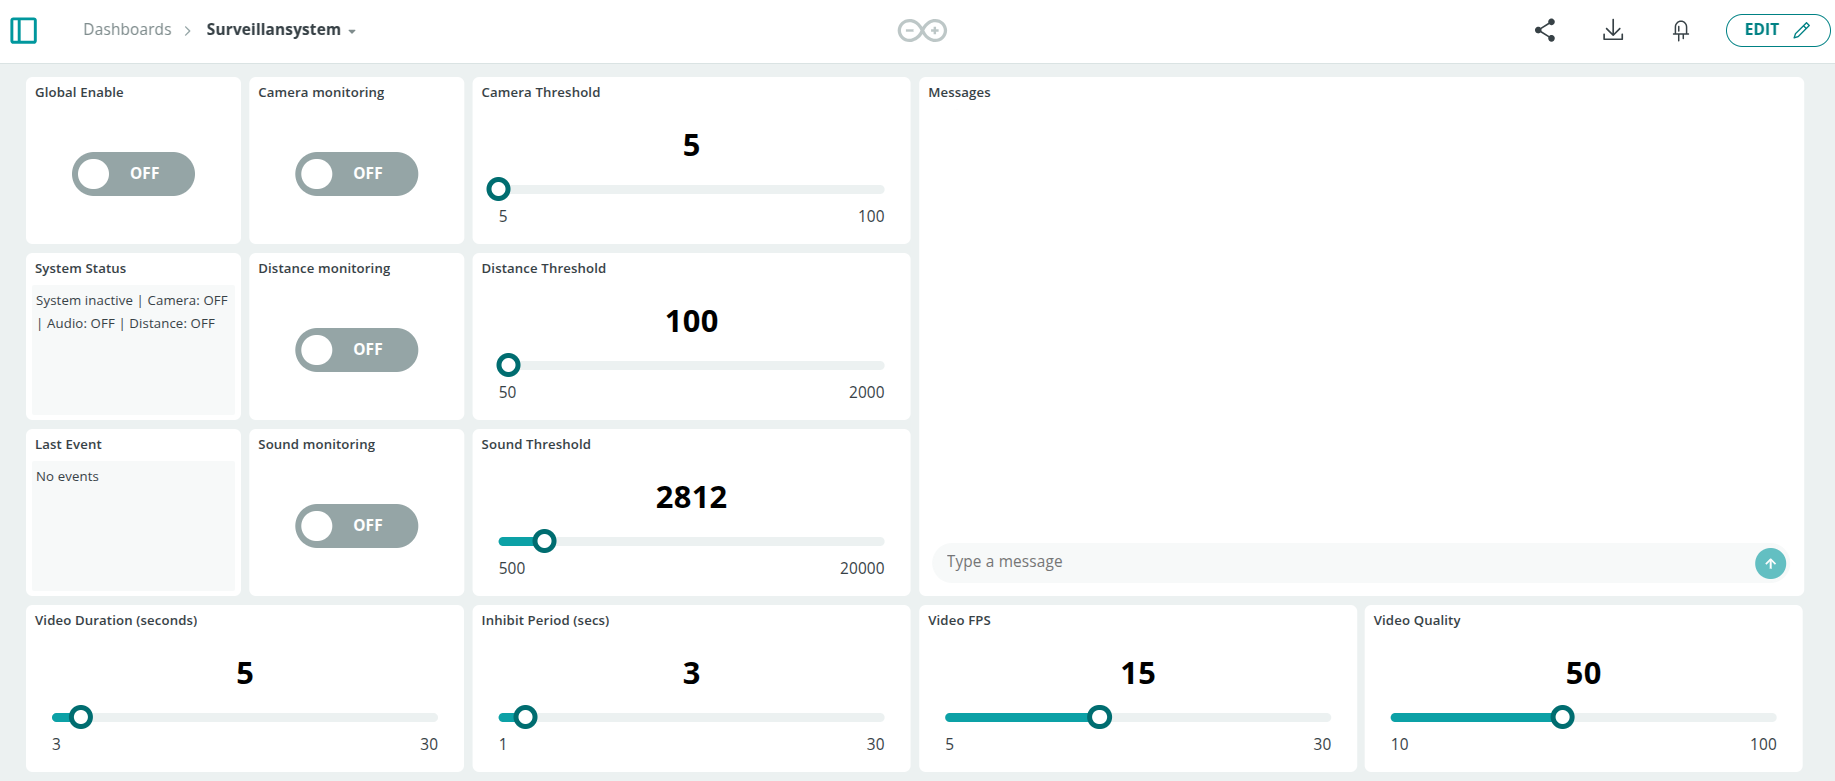
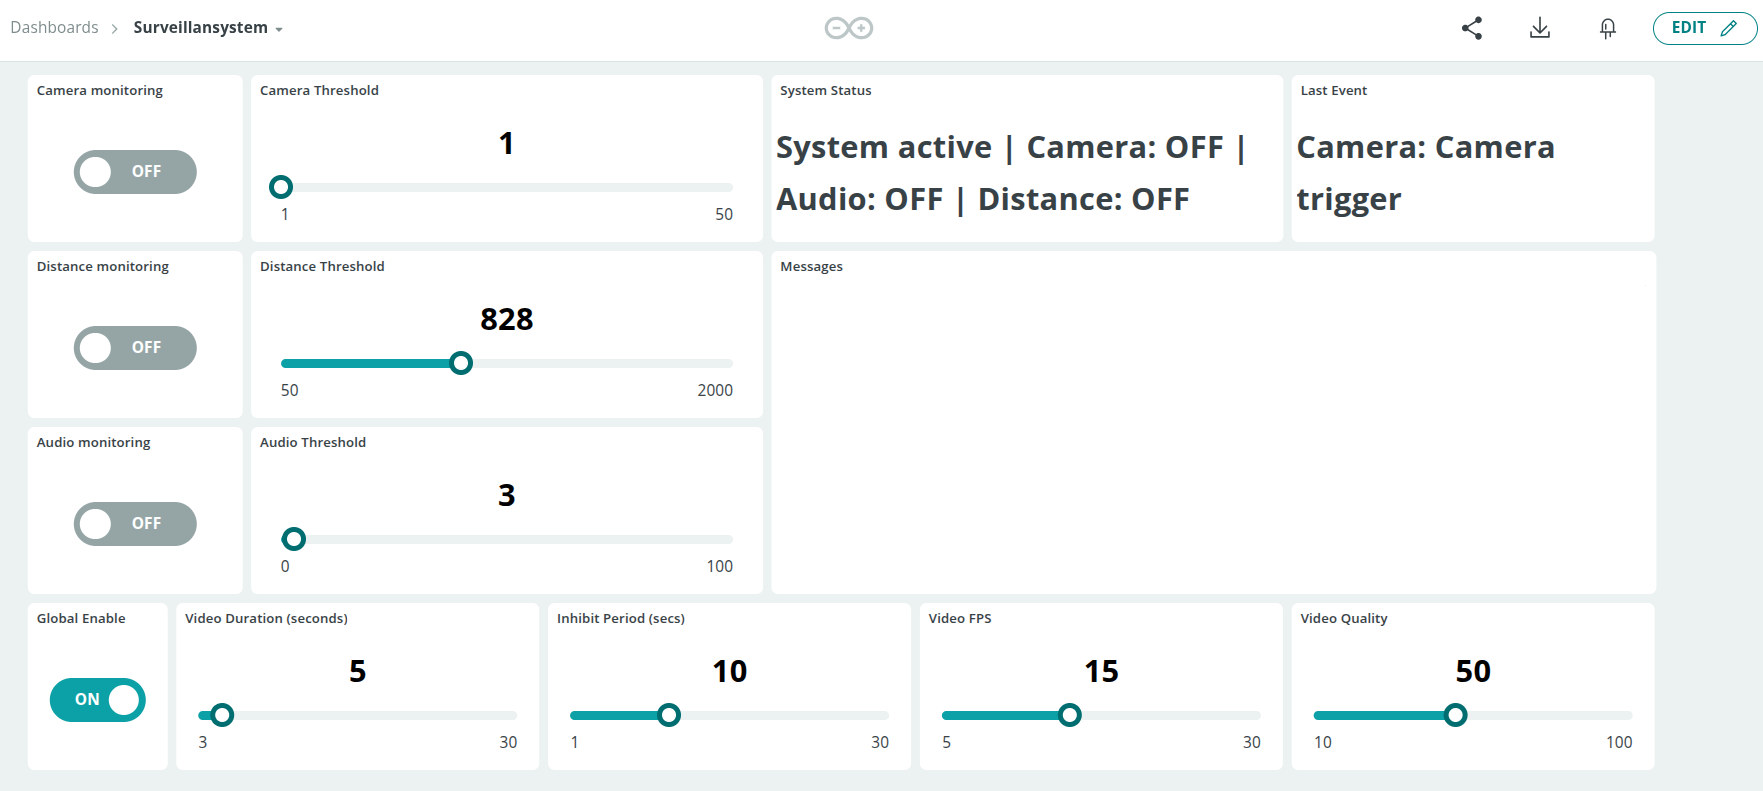
fix(detector): fixed audio detection with fft. Updated better config starting settings and removed redundant notification message in audio detection with telegram_manager; updated dashboard image for README.md file

diff --git a/audio_detector.py b/audio_detector.py
@@ -8,6 +8,7 @@ from ulab import utils
 
 # LED for debugging
 green_led = pyb.LED(2)
+red_led = pyb.LED(1)
 
 # Global variable for the AudioDetector instance
 global_audio_detector = None
@@ -20,115 +21,132 @@ def global_audio_callback(buf):
 
 class AudioDetector:
     def __init__(self, config):
-        """Initialize audio detector with FFT-based analysis"""
+        """Initialize audio detector with improved peak detection"""
         global global_audio_detector
         global_audio_detector = self  # Assign this instance to the global variable
-        
+
         self.config = config
         self.audio_enabled = False
         self.audio_streaming_active = False
         self.raw_buf = None
-        self.last_level = 0  # Store last detected level
+
+        # Improved peak detection parameters
         self.sound_detected = False  # Flag for sound detection
-        
-        # Audio analysis variables
-        self.avg_levels = []  # For running average of audio levels
-        self.max_avg_samples = 5  # Number of samples to keep for averaging
-        
+        self.last_level = 0          # Store last detected level
+        self.peak_count = 0          # Counter for detected peaks
+        self.last_alert_time = 0     # Time of last alert
+
+        # Parameters from config, with proper defaults if not available
+        self.reset_threshold = 5     # Level below which we consider the sound has ended
+        self.min_time_between_alerts = 0.5  # Minimum seconds between alerts
+
         # Initialize audio system
         self.init_audio()
-    
+
     def init_audio(self):
         """Initialize audio with appropriate settings"""
-        logger.info("Initializing audio detector with FFT analysis...")
+        logger.info("Initializing audio detector with improved peak detection...")
 
         try:
             # Initialize audio with the configured gain
             audio.init(channels=1, frequency=16000, gain_db=self.config.AUDIO_GAIN, highpass=0.9883)
             self.audio_enabled = True
             logger.info(f"Audio initialized with gain {self.config.AUDIO_GAIN}dB")
-            
+
             # Initialize the buffer for FFT analysis
             self.raw_buf = None
-            
+
             # Reset detection state
             self.sound_detected = False
-            self.avg_levels = []
-            
+            self.peak_count = 0
+
             # Force a garbage collection
             gc.collect()
-            
+
         except Exception as e:
             logger.error(f"Audio initialization error: {e}")
-    
+
     def process_audio(self, buf):
-        """Process audio buffer using FFT analysis"""
-        # Store the buffer for FFT analysis
+        """Process audio buffer using peak detection algorithm"""
+        # Store the buffer for analysis
         if not self.raw_buf:
             self.raw_buf = buf
-        
-        # Skip processing if disabled or already detected
-        if not self.audio_enabled or not self.audio_streaming_active or self.sound_detected:
+
+        # Skip processing if disabled or not active
+        if not self.audio_enabled or not self.audio_streaming_active:
             return
-            
+
         try:
             if self.raw_buf:
-                # Convert buffer to int16 array for FFT analysis
+                # Convert buffer to int16 array for analysis
                 pcm_buf = np.frombuffer(self.raw_buf, dtype=np.int16)
-                self.raw_buf = None  # Reset buffer
-                
+                self.raw_buf = None  # Reset buffer immediately to allow new data
+
                 # Skip processing if buffer is empty
                 if len(pcm_buf) == 0:
                     return
-                
-                # Calculate FFT spectrum
+
+                # Calculate FFT spectrum (useful for frequency analysis if needed)
                 fft_buf = utils.spectrogram(pcm_buf)
-                
-                # Calculate audio level - mean of absolute values (0-100 scale)
-                level = int((np.mean(abs(pcm_buf)) / 32768) * 100)
-                
-                # Add to rolling average
-                self.avg_levels.append(level)
-                if len(self.avg_levels) > self.max_avg_samples:
-                    self.avg_levels.pop(0)
-                
-                # Calculate average level
-                avg_level = sum(self.avg_levels) / len(self.avg_levels)
-                
-                # Scale to match threshold range (convert from 0-100 to threshold range)
-                audio_threshold = avg_level * (self.config.SOUND_THRESHOLD_MAX / 100)
-                
+
+                # IMPROVED: Calculate peak amplitude instead of average
+                peak_amplitude = np.max(abs(pcm_buf))
+                peak_level = int((peak_amplitude / 32768) * 100)
+
+                # Store raw level for reference
+                raw_level = int((np.mean(abs(pcm_buf)) / 32768) * 100)
+
                 # Store the level for external access
-                self.last_level = audio_threshold
-                
-                # Print debug messages
+                self.last_level = peak_level
+
+                # Debug logging
                 if self.config.DEBUG and time.time() % 5 == 0:
-                    logger.debug(f"Audio level: {audio_threshold:.1f}, threshold: {self.config.SOUND_THRESHOLD}", verbose=True)
-                
-                # Check if level exceeds threshold
-                if audio_threshold > self.config.SOUND_THRESHOLD:
-                    logger.info(f"Sound detected: level={audio_threshold:.1f}, threshold={self.config.SOUND_THRESHOLD}")
-                    self.sound_detected = True
-                    
-                    # Visual feedback
-                    green_led.on()
-                    time.sleep(0.1)
-                    green_led.off()
-                
+                    logger.debug(f"Audio peak: {peak_level}, raw: {raw_level}, threshold: {self.config.SOUND_THRESHOLD}", verbose=True)
+
+                # Check for peak detection
+                if peak_level > self.config.SOUND_THRESHOLD:
+                    self._handle_audio_peak(peak_level)
+                elif peak_level < self.reset_threshold and self.sound_detected:
+                    # Reset the detection state when audio falls below reset threshold
+                    self.sound_detected = False
+                    red_led.off()  # Visual indication of reset
+
         except Exception as e:
             logger.error(f"Error in audio processing: {e}")
             # Force garbage collection
             gc.collect()
-    
+
+    def _handle_audio_peak(self, level):
+        """Handle detected audio peak with improved management"""
+        current_time = time.time()
+
+        # Check if enough time has passed since last alert
+        if current_time - self.last_alert_time >= self.min_time_between_alerts:
+            # Increment peak counter
+            self.peak_count += 1
+
+            # Set detection flag
+            self.sound_detected = True
+
+            # Log the detection
+            logger.info(f"Sound peak #{self.peak_count} detected: level={level}, threshold={self.config.SOUND_THRESHOLD}")
+
+            # Visual feedback
+            red_led.on()
+
+            # Update last alert time
+            self.last_alert_time = current_time
+
+            # No need to return anything - the main system checks status with check_sound()
+
     def check_sound(self):
-        """Check if sound has been detected, similar to check_motion() and check_distance()"""
+        """Check if sound has been detected, returning detection state and level"""
         if self.sound_detected:
-            # Reset flag for next detection
-            was_detected = True
-            self.sound_detected = False
-            return was_detected, self.last_level
+            # We return the detection but don't reset it here - that happens when
+            # audio level drops below reset_threshold in process_audio
+            return True, self.last_level
         return False, 0
-    
+
     def start_audio_detection(self):
         """Start audio detection with proper initialization"""
         if not self.audio_enabled:
@@ -138,13 +156,12 @@ class AudioDetector:
         try:
             # Reset detection state
             self.sound_detected = False
-            self.avg_levels = []
             self.raw_buf = None
-            
+
             # Start audio streaming
             audio.start_streaming(global_audio_callback)
             self.audio_streaming_active = True
-            logger.info("Audio streaming started with FFT analysis")
+            logger.info("Audio streaming started with improved peak detection")
             return True
         except Exception as e:
             logger.error(f"Error starting audio streaming: {e}")
@@ -156,39 +173,50 @@ class AudioDetector:
         try:
             # First mark streaming as inactive to block new callbacks
             self.audio_streaming_active = False
-            
+
             # Short delay for in-flight callbacks to complete
             time.sleep(0.1)
-            
+
             # Stop the streaming
             audio.stop_streaming()
-            
+
             # Reset state
             self.sound_detected = False
             self.raw_buf = None
-            self.avg_levels = []
-            
+
+            # Turn off LED if it was on
+            red_led.off()
+
             # Force garbage collection
             gc.collect()
-            
+
             logger.info("Audio streaming stopped")
             return True
         except Exception as e:
             logger.error(f"Error stopping audio streaming: {e}")
             return False
-    
+
     def recalibrate(self):
         """Reset audio detection (similar to distance recalibration)"""
         try:
-            logger.info("Recalibrating audio detector...")
-            
+            logger.info(f"Recalibrating audio detector. Current threshold: {self.config.SOUND_THRESHOLD}")
+
             # Reset detection state
             self.sound_detected = False
-            self.avg_levels = []
-            
-            # Reset buffer
             self.raw_buf = None
-            
+
+            # Reset peak counter (optional - could keep for long-term stats)
+            # self.peak_count = 0
+
+            # Turn off LED if it was on
+            red_led.off()
+
+            # Visual feedback for recalibration
+            green_led.on()
+            time.sleep(0.05)
+            green_led.off()
+
+            logger.info(f"Audio detector recalibrated with threshold: {self.config.SOUND_THRESHOLD}")
             return True
         except Exception as e:
             logger.error(f"Error recalibrating audio detector: {e}")

diff --git a/telegram_manager.py b/telegram_manager.py
@@ -172,17 +172,6 @@ class TelegramManager:
             return False
             
         try:
-            # Prepara il messaggio con il livello audio
-            message = f"🔊 Sound detected! Level: {level}"
-            
-            # Invia la notifica principale a tutti gli utenti autorizzati
-            success = self.send_message_to_all(message)
-            if not success:
-                return False
-                
-            # Piccola pausa tra l'invio del testo e dei media per evitare sovraccarichi
-            time.sleep(0.5)
-            
             # Invia la foto se disponibile e se l'invio foto è abilitato
             photo_sent = True
             if photo_path and self.config.SEND_PHOTOS_TELEGRAM:

diff --git a/config.py b/config.py
@@ -24,11 +24,11 @@ class Config:
     PHOTO_QUALITY = 90         # JPEG image quality (0-100)
 
     # Audio settings
-    SOUND_THRESHOLD = 10000    # Increased threshold to reduce false positives
+    SOUND_THRESHOLD = 5        # Increased threshold to reduce false positives
     SOUND_THRESHOLD_MIN = 0
-    SOUND_THRESHOLD_MAX = 50000
+    SOUND_THRESHOLD_MAX = 100
     MAX_AUDIO_PHOTOS = 5     # Reduced to save memory
-    AUDIO_GAIN = 0           # Reduced to lower sensitivity
+    AUDIO_GAIN = 24          # Reduced to lower sensitivity
 
     # Distance settings
     DISTANCE_THRESHOLD = 100   # Tolerance threshold in mm (reduced for higher sensitivity)
